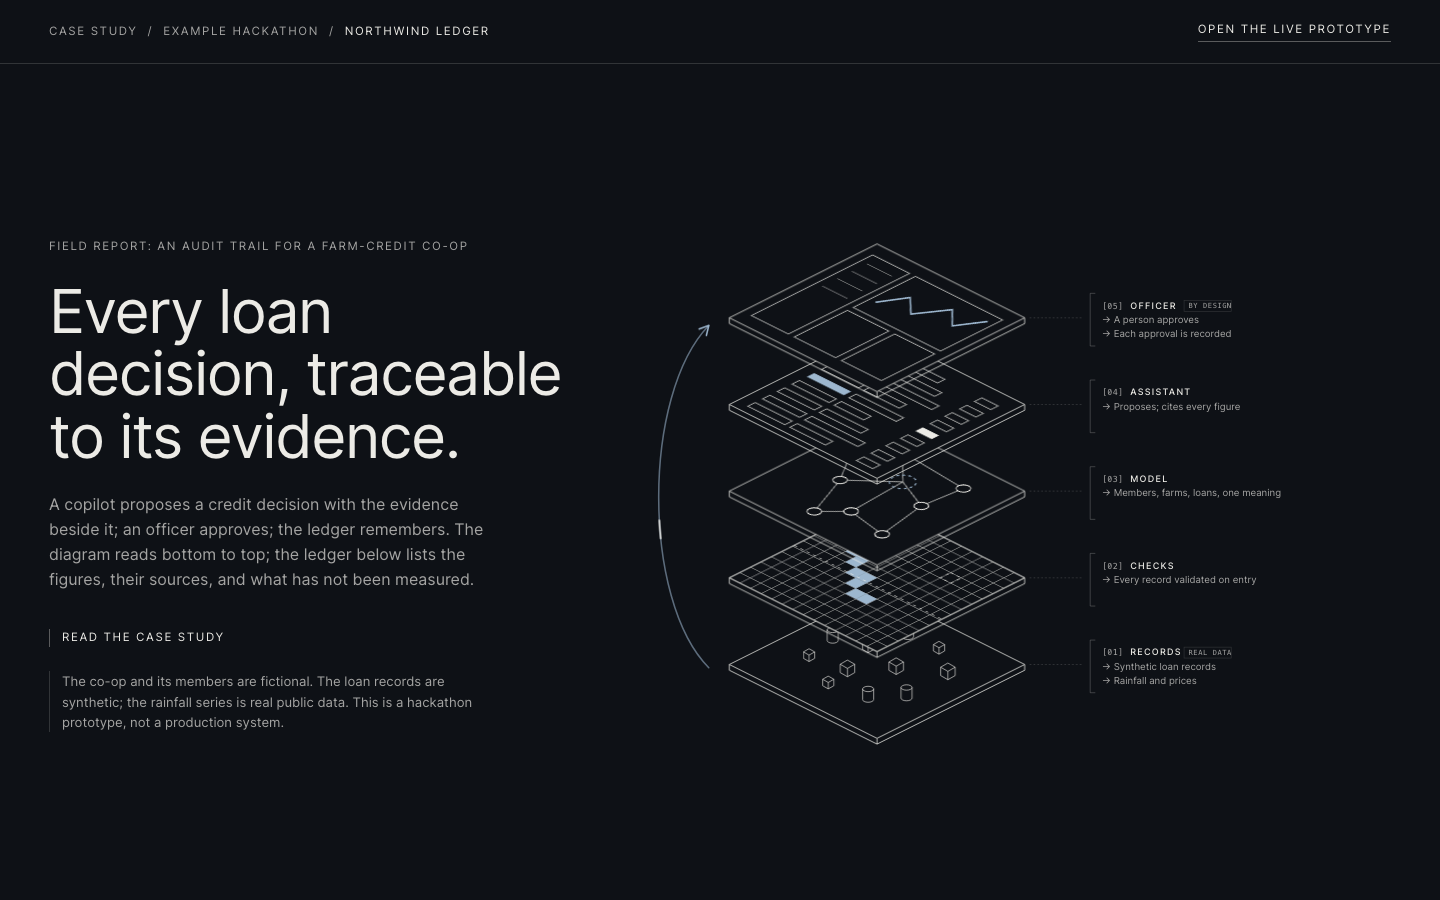
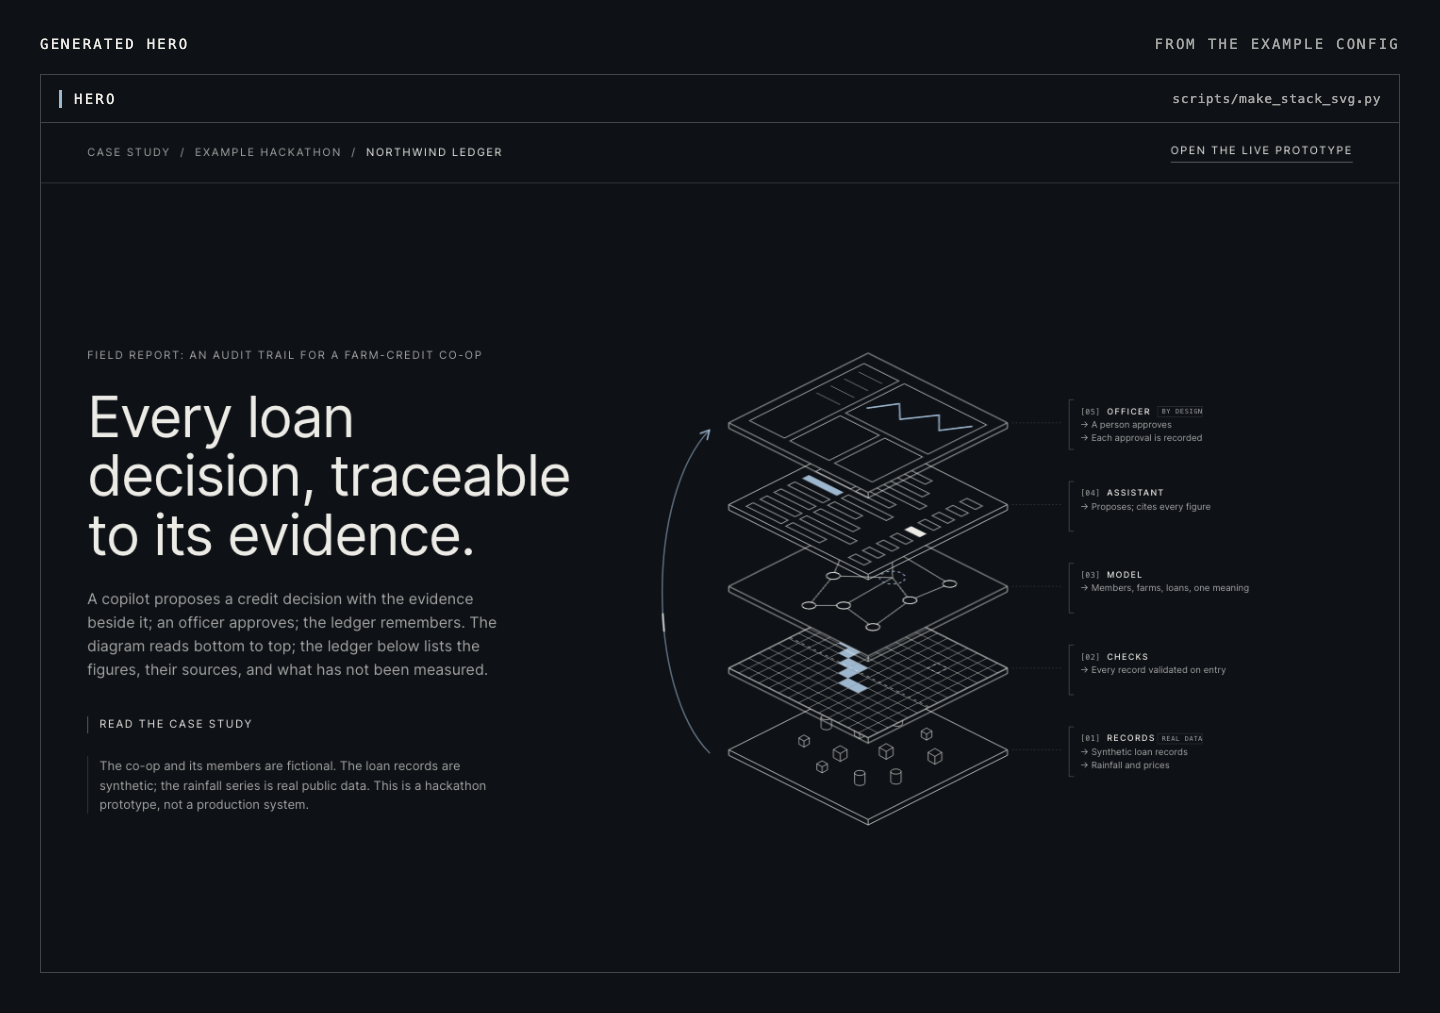
docs: labelled, framed README figures; process diagram; reorganised README
Rebuild the comparison and phone figures as framed, labelled panels with a divider
(docs/build_figures.py regenerates them from docs/src), add a process figure, move
the comparison first, and drop the old unframed duplicates.

diff --git a/docs/build_figures.py b/docs/build_figures.py
@@ -1,0 +1,107 @@
+#!/usr/bin/env python3
+"""Rebuild the README figures in docs/img from the raw captures in docs/src.
+
+Each figure is a labelled, framed panel (or two, with a divider) in the skill's own look, so a side-by-side
+reads as a comparison and not as two crops glued together.
+Run: python3 docs/build_figures.py     (needs Playwright with Chromium)
+"""
+from __future__ import annotations
+
+import sys
+from html import escape
+from pathlib import Path
+
+from playwright.sync_api import sync_playwright
+
+ROOT = Path(__file__).resolve().parent
+SRC, OUT = ROOT / "src", ROOT / "img"
+OUT.mkdir(exist_ok=True)
+
+CSS = """
+*{box-sizing:border-box}body{margin:0;background:#0e1116;color:#ecebe6;font-family:Inter,'Helvetica Neue',Arial,sans-serif}
+.fig{display:inline-block;padding:36px 40px 40px;background:#0e1116}
+.title{display:flex;justify-content:space-between;align-items:baseline;margin:0 0 22px;font:500 14px Menlo,monospace;letter-spacing:.16em;text-transform:uppercase;color:rgba(236,235,230,.68)}
+.title b{color:#ecebe6;font-weight:500}
+.row{display:flex;gap:0;align-items:stretch}
+.panel{border:1px solid rgba(236,235,230,.24);display:flex;flex-direction:column}
+.bar{display:flex;justify-content:space-between;align-items:center;padding:0 18px;height:48px;border-bottom:1px solid rgba(236,235,230,.24)}
+.lab{display:flex;align-items:center;gap:12px;font:500 14px Menlo,monospace;letter-spacing:.16em;text-transform:uppercase}
+.lab i{display:block;width:3px;height:18px;background:var(--tick,rgba(236,235,230,.34))}
+.sub{font:400 13px Menlo,monospace;letter-spacing:.04em;color:rgba(236,235,230,.68)}
+.panel img{display:block;width:100%;height:auto}
+.gap{width:72px;position:relative;flex:none}
+.gap::before{content:"";position:absolute;left:50%;top:0;bottom:0;border-left:1px dashed rgba(236,235,230,.3)}
+.gap span{position:absolute;left:50%;top:50%;transform:translate(-50%,-50%);background:#0e1116;padding:8px 0;font:500 13px Menlo,monospace;letter-spacing:.14em;color:rgba(236,235,230,.68)}
+.steps{display:grid;grid-template-columns:repeat(3,1fr);width:1240px;border:1px solid rgba(236,235,230,.24)}
+.step{padding:20px 22px 24px;border-right:1px solid rgba(236,235,230,.24);border-bottom:1px solid rgba(236,235,230,.24);min-height:150px}
+.step:nth-child(3n){border-right:0}.step:nth-last-child(-n+3){border-bottom:0}.step .n{font:500 13px Menlo,monospace;color:#9db7cf;letter-spacing:.08em}
+.step h4{margin:10px 0 8px;font:400 26px Inter,sans-serif;letter-spacing:-.01em}
+.step p{margin:0;font:400 16px/1.45 Inter,sans-serif;color:rgba(236,235,230,.68)}
+.step code{display:block;margin-top:12px;font:500 13px Menlo,monospace;color:#9db7cf;letter-spacing:.02em}
+"""
+
+
+def img(name: str) -> str:
+    return f"file://{SRC / name}"
+
+
+def panel(label: str, sub: str, src: str, width: int, tick: str | None = None) -> str:
+    style = f' style="--tick:{tick}"' if tick else ""
+    return (f'<div class="panel" style="width:{width}px"><div class="bar"{style}><span class="lab"><i></i>{escape(label)}</span>'
+            f'<span class="sub">{escape(sub)}</span></div><img src="{img(src)}"></div>')
+
+
+def figure(title: str, note: str, body: str) -> str:
+    return f'<!doctype html><meta charset="utf-8"><style>{CSS}</style><div class="fig" id="fig"><div class="title"><b>{escape(title)}</b><span>{escape(note)}</span></div>{body}</div>'
+
+
+SIG = "#9db7cf"
+FIGS = {
+    "compare-tern": figure("Same brief, built twice", "Tern, a made-up shorebird-monitoring tool", '<div class="row">'
+        + panel("With the skill", "23 / 23 checks · 269 s", "tern-with.png", 1100, SIG)
+        + '<div class="gap"><span>VS</span></div>'
+        + panel("Without the skill", "18 / 23 checks · 511 s", "tern-without.png", 1100) + "</div>"),
+    "compare-ferryline": figure("Same brief, built twice", "Ferryline, a made-up ferry-dispatch copilot", '<div class="row">'
+        + panel("With the skill", "20 / 20 checks · 405 s", "ferry-with.png", 1100, SIG)
+        + '<div class="gap"><span>VS</span></div>'
+        + panel("Without the skill", "17 / 20 checks · 282 s", "ferry-without.png", 1100) + "</div>"),
+    "mobile": figure("On a phone", "390 px wide, from the generated example page", '<div class="row">'
+        + panel("Hero", "diagram, then legend", "mobile-hero.png", 520, SIG)
+        + '<div class="gap"></div>'
+        + panel("Ledger", "stacked cards", "mobile-ledger.png", 520, SIG) + "</div>"),
+    "hero": figure("Generated hero", "from the example config", panel("Hero", "scripts/make_stack_svg.py", "hero.png", 1360, SIG)),
+    "ledger": figure("Generated ledger", "from the example config", panel("Results ledger", "sources, tags and misses in one table", "ledger.png", 1360, SIG)),
+    "stack": figure("Hero generator", "scripts/make_stack_svg.py, five layers", panel("Exploded layer stack", "bracketed legend, signal arrow", "stack.png", 1100, SIG)),
+}
+
+STEPS = [("01", "Brief", "Audience, thesis, beats, proof sources", ""), ("02", "Ground", "Take the grammar from references, not the artwork", ""),
+         ("03", "Contract", "Thesis, own-world, story, form, finish", ""), ("04", "Story", "Problem, response, capabilities, platform, proof", ""),
+         ("05", "Assets", "Still, clip, graded frames. Ask before spending", "frames_from_clip.sh"), ("06", "Build", "One config makes the page", "scaffold_page.py"),
+         ("07", "Honesty", "Sources, tags, no absolutes, misses shown", "honesty_scan.py"), ("08", "Verify", "One bounded pass, then an independent review", ""),
+         ("09", "Document", "Design entry and provenance", "")]
+FIGS["process"] = figure("The process", "nine steps, the tools that automate them in blue", '<div class="steps">' + "".join(
+    f'<div class="step"><div class="n">{n}</div><h4>{escape(t)}</h4><p>{escape(d)}</p>' + (f"<code>{escape(c)}</code>" if c else "") + "</div>" for n, t, d, c in STEPS) + "</div>")
+
+
+def main() -> int:
+    missing = [p for p in SRC.glob("*.png")] or None
+    if not missing:
+        print("no captures in docs/src", file=sys.stderr)
+        return 2
+    with sync_playwright() as p:
+        b = p.chromium.launch()
+        pg = b.new_context(viewport={"width": 2600, "height": 1000}).new_page()
+        for name, html in FIGS.items():
+            tmp = OUT / f".{name}.html"
+            tmp.write_text(html)
+            pg.goto(f"file://{tmp}")
+            pg.wait_for_timeout(500)
+            pg.locator("#fig").screenshot(path=str(OUT / f"{name}.png"))
+            tmp.unlink()
+            print("wrote", OUT / f"{name}.png")
+        b.close()
+    return 0
+
+
+if __name__ == "__main__":
+    raise SystemExit(main())

diff --git a/README.md b/README.md
@@ -1,40 +1,48 @@
 # Field Report
 
-A [Claude Code](https://claude.com/claude-code) skill that turns a project (built for a hackathon, a client or a demo) into a **forward-deployed-engineer case study page**: a dark, hairline, engineering-report look, one exploded diagram of the system as the hero, and an honest ledger of what was and was not measured.
+[![tests](https://github.com/abdullahabtahi/field-report-skill/actions/workflows/test.yml/badge.svg)](https://github.com/abdullahabtahi/field-report-skill/actions/workflows/test.yml)
 
-The look is deliberately locked. Consistency across several case studies is the point; only the content, the hero object, the story and the generated assets change per project. Version 0.1, experimental (see [How well does it work](#how-well-does-it-work)).
+A [Claude Code](https://claude.com/claude-code) skill that turns a project (built for a hackathon, a client or a demo) into a **forward-deployed-engineer case study page**: a dark, hairline, engineering-report look; one exploded diagram of the system as the hero; and an honest ledger of what was and was not measured.
 
-![The same brief built with the skill (left) and without it (right)](docs/img/compare-tern.png)
+The look is deliberately locked. Consistency across several case studies is the point: only the content, the hero object, the story and the generated assets change per project. Version 0.1, experimental (see [How well does it work](#how-well-does-it-work)).
 
-*Same brief, built twice. Left: with the skill. Right: without it. Both are dark and careful; the skill version holds the house palette, type and legend grammar, and was built with the page generator described below.*
+![The same brief built with the skill and without it, side by side](docs/img/compare-tern.png)
+
+*Same brief, built twice. Both pages are dark and careful. The one on the left holds the house palette, type and legend grammar and was built with the page generator below; the one on the right was built from the same words with no skill.*
+
+## The process
+
+![The nine steps of the process, with the tools that automate them](docs/img/process.png)
+
+Claude follows these steps when you ask for a case-study page. Three have tools behind them: the frame cutter, the page generator and the honesty scan. Step 8 includes an independent finish review by a fresh agent, not the one that built the page.
 
 ## What it makes
 
-The pages below come straight from the generator, using the fictional example in [`examples/northwind-ledger/`](examples/northwind-ledger/) (sample figures, clearly tagged).
+The images below come straight from the generator, using the fictional example in [`examples/northwind-ledger/`](examples/northwind-ledger/) (sample figures, clearly tagged).
 
-![Hero: an exploded five-layer stack with a bracketed legend and a signal arrow](docs/img/hero.png)
+![The generated hero: an exploded stack of layers with a bracketed legend](docs/img/hero.png)
 
-*The hero: an exploded stack of the system's layers, read bottom to top, with a bracketed legend and a signal arrow carrying one travelling dash. Generated by `make_stack_svg.py`.*
+*The hero is an exploded stack of the system's layers, read bottom to top, with a bracketed legend and a signal arrow that carries one travelling dash.*
 
-![Results ledger with SAMPLE tags and a miss shown in amber](docs/img/ledger.png)
+![The generated results ledger with SAMPLE tags and a miss in amber](docs/img/ledger.png)
 
-*The ledger: every figure has a source, an as-of date and a tag; figures supplied as placeholders say `SAMPLE`; the heading follows the tags; misses and gaps sit in the same table in the one warm colour.*
+*The ledger gives every figure a source, an as-of date and a tag. Placeholders say `SAMPLE`, the heading follows the tags, and misses and gaps sit in the same table in the one warm colour.*
 
-![Phone layout: header, hero, then the ledger as stacked cards](docs/img/mobile.png)
+![The generated page on a 390 px phone: hero, then the ledger as cards](docs/img/mobile.png)
 
-*Phone layout (390 px): the legend becomes a list under the diagram and the ledger stacks into cards. No horizontal scroll.*
+*On a phone the legend becomes a list under the diagram and the ledger stacks into cards, with no horizontal scroll.*
 
 ## The design system
 
-![The whole palette: ground, ink, signal, warn](docs/img/palette.png)
+![The whole palette: ground, ink, signal and warn](docs/img/palette.png)
 
-Four values and hairlines. One signal colour for the signal path and the active layer; one warm colour that appears only on a miss or a gap. No gradients, shadows, glow, glass or cards. One grotesque at regular weight, mono only for figures, ids and tags. The reasons for each rule are in [`field-report-landing/references/design-world.md`](field-report-landing/references/design-world.md).
+Four values and hairlines. One signal colour for the signal path and the active layer; one warm colour that appears only on a miss or a gap. No gradients, shadows, glow, glass or cards. One grotesque at regular weight; mono only for figures, ids and tags. The reason for each rule is in [`design-world.md`](field-report-landing/references/design-world.md).
 
-![A close-up of the hero generator output](docs/img/stack.png)
+![The hero generator's output: five layers with bracketed legend](docs/img/stack.png)
 
 ## It will not let you overclaim
 
-Fill one config file and `scaffold_page.py` builds the whole page and a `results.json` from it, so a number on the page cannot drift from its data. If the config breaks the honesty rules, it refuses and writes nothing. This is real output:
+Fill one config file and `scaffold_page.py` builds the whole page and a `results.json` from it, so a number on the page cannot drift from its data. If the config breaks the honesty rules it refuses and writes nothing. This is real output:
 
 ```text
 ERROR headline: absolute 'never' (say what is checked and how)
@@ -47,16 +55,19 @@ WARN  lede: quantity word with no source ('hundreds'); give it a ledger row or r
 
 ## What is in the box
 
-- **A workflow** Claude follows: brief, ground, direction contract, story, assets, build, honesty pass, bounded verification, an independent finish review, documentation.
-- **A page generator** (`scripts/scaffold_page.py`): hero with legend, problem and response, capability frames, platform list, results ledger with misses, close; plus `DESIGN-landing.md` and `PROVENANCE.md`.
-- **A hero generator** (`scripts/make_stack_svg.py`): the exploded layer stack, 3 to 6 layers, five artwork styles.
-- **An asset recipe** for generating the hero orbit with Magnific (still, then clip, then graded frames), with prompts that worked and what went wrong, plus `scripts/frames_from_clip.sh`.
-- **Checks:** `honesty_scan.py` (banned words, absolutes, numbers and quantity words outside data files), `asset_version_check.py` (cached rasters changed without a version bump).
-- **Building blocks:** design tokens, a direction-contract template, a windowed frame-sequence loader and hook for scroll-scrubbed canvases, and style-reference frames to use when generating a hero.
+| | |
+|---|---|
+| **Workflow** | `SKILL.md`: the steps above, the decisions that belong to you, and a list of known failure modes |
+| **References** | the design world, story spine, Magnific asset recipe, build checklist, honesty rules, brief template and finish-review checklist, each rule with its reason |
+| **Page generator** | `scripts/scaffold_page.py`: hero, problem and response, capabilities, platform, ledger with misses, close, plus `DESIGN-landing.md` and `PROVENANCE.md` |
+| **Hero generator** | `scripts/make_stack_svg.py`: the exploded layer stack, 3 to 6 layers, five artwork styles |
+| **Asset tools** | `scripts/frames_from_clip.sh` turns a generated clip into graded WebP frames; `references/asset-recipe.md` has the prompts that worked |
+| **Checks** | `honesty_scan.py` (banned words, absolutes, numbers and quantity words outside data files), `asset_version_check.py` (cached rasters changed without a version bump) |
+| **Building blocks** | design tokens, a direction-contract template, a windowed frame-sequence loader and hook for scroll-scrubbed canvases, style-reference frames for generating a hero |
 
 ## Install
 
-Prerequisites: Claude Code; Python 3; for the optional generated hero, a Magnific account with its MCP connected, plus `ffmpeg` and `cwebp`. The skill calls the `impeccable` design skill for context and polish if you have it installed (optional, installed separately).
+Prerequisites: Claude Code and Python 3. For the optional generated hero you also need a Magnific account with its MCP connected, plus `ffmpeg` and `cwebp`. The skill calls the `impeccable` design skill for context and polish if you have it installed (optional, installed separately).
 
 ```bash
 git clone https://github.com/abdullahabtahi/field-report-skill
@@ -73,26 +84,27 @@ python3 ~/.claude/skills/field-report-landing/scripts/scaffold_page.py --config 
 open dist/index.html
 ```
 
-Or just ask Claude for a case-study landing page in this style. The example above lives in [`examples/northwind-ledger/`](examples/northwind-ledger/) (config and built page).
+Or just ask Claude for a case-study landing page in this style. The example above is in [`examples/northwind-ledger/`](examples/northwind-ledger/) (config and built page).
 
 ## How well does it work
 
 Two made-up briefs, each built with and without the skill and scored by an objective grader: **20/20 vs 17/20** and **23/23 vs 18/23**.
 
-![The same comparison on the first brief](docs/img/compare-ferryline.png)
+![The first brief, built with and without the skill](docs/img/compare-ferryline.png)
 
-The skill's gain is fidelity to the design system and to the honesty rules, plus a page generator that cut the second build's time; a no-skill run is not weak and can build richer interaction. An independent finish review of a with-skill page found six real issues, whose causes are fixed in the generator and rules. Full results, grader changes and limits: [`evals/RESULTS.md`](evals/RESULTS.md).
+The skill's gain is fidelity to the design system and to the honesty rules, plus a page generator that cut the second build's time. A no-skill run is not weak and can build richer interaction. An independent finish review of a with-skill page found six real issues, whose causes are fixed in the generator and rules. Full results, grader changes and limits are in [`evals/RESULTS.md`](evals/RESULTS.md).
 
 Not yet proven: automatic triggering (the trigger test returned 0% recall in its harness, so it says nothing either way), generated-hero builds, scroll sequences, interactive figures, or a real project end to end. Treat 0.1 as a strong starting point, not a finished product.
 
-## Tests
+## Development
 
 ```bash
-python3 -m unittest discover -s tests
+python3 -m unittest discover -s tests          # script tests
+python3 docs/build_figures.py                  # rebuild the README figures from docs/src (needs Playwright)
 ```
 
 ## Notes
 
-- Not affiliated with, or endorsed by, Palantir, QuantumBlack or any company named as a style reference; the skill borrows a visual grammar (layer diagrams, bracketed legends, hairline linework), not anyone's artwork.
+- Not affiliated with, or endorsed by, Palantir, QuantumBlack or any company named as a style reference. The skill borrows a visual grammar (layer diagrams, bracketed legends, hairline linework), not anyone's artwork.
 - The bundled style-reference frames are the author's own generated art. Check your image tool's terms before redistributing generated images in your own fork.
 - Licence: MIT.

diff --git a/evals/RESULTS.md b/evals/RESULTS.md
@@ -7,7 +7,7 @@ Two made-up briefs, each built once with the skill and once without it (a fresh 
 | 1 | Ferryline: hero plus ledger | 20 / 20 | 17 / 20 | 126k / 95k | 405 s / 282 s |
 | 2 | Tern: the whole page | 23 / 23 | 18 / 23 | 128k / 137k | 269 s / 511 s |
 
-Side-by-side hero screenshots: `evals/results/iteration-1-hero-comparison.png`, `evals/results/iteration-2-hero-comparison.png`.
+Side-by-side hero screenshots: `docs/img/compare-ferryline.png`, `docs/img/compare-tern.png`.
 
 ## What the numbers say
 - **Fidelity to the design system and to the honesty rules is the skill's clear gain.** Without it, runs invented their own section names, used a gradient or blur, a saturated cyan or an orange where the house uses a muted steel-blue and amber, no start-frame step in the asset prompts, and (brief 2) no cost-approval step.
